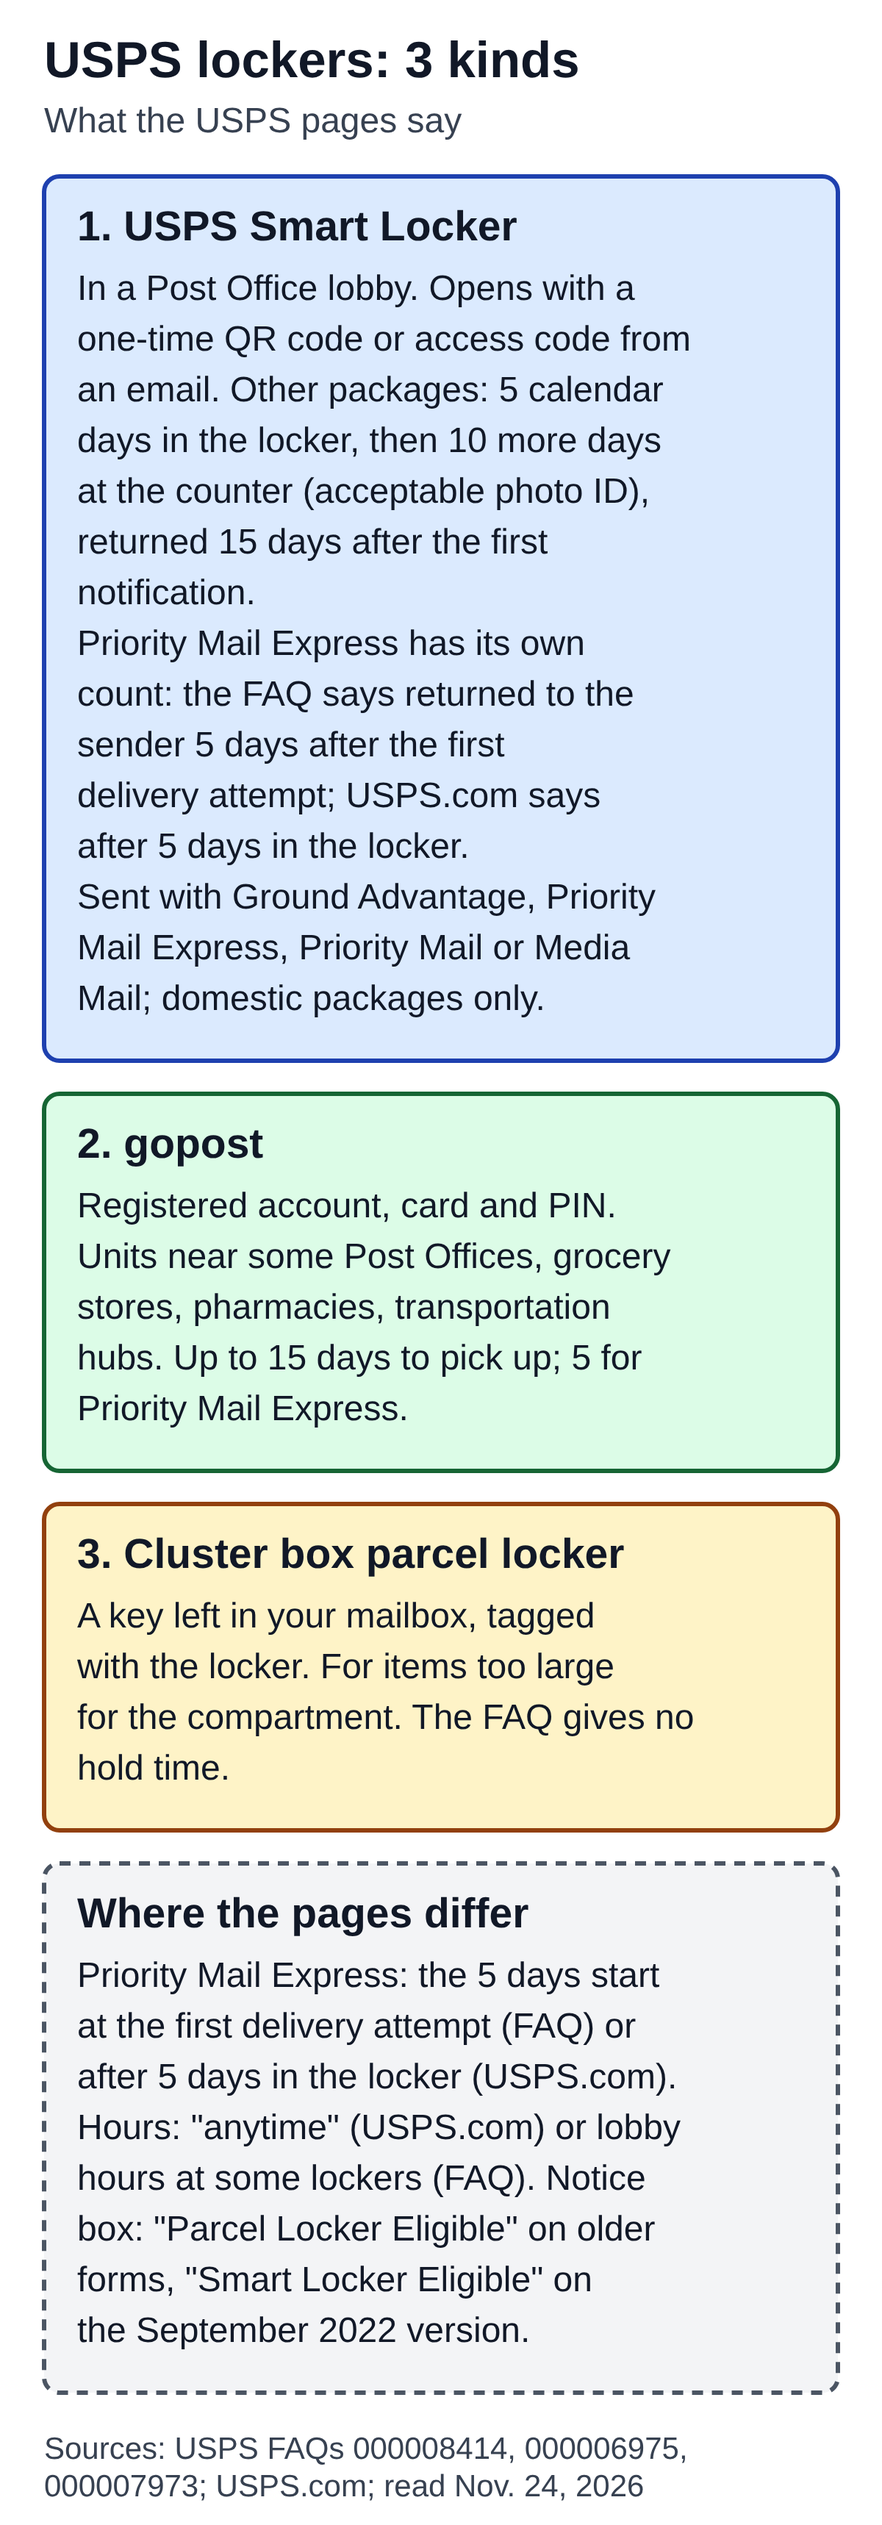
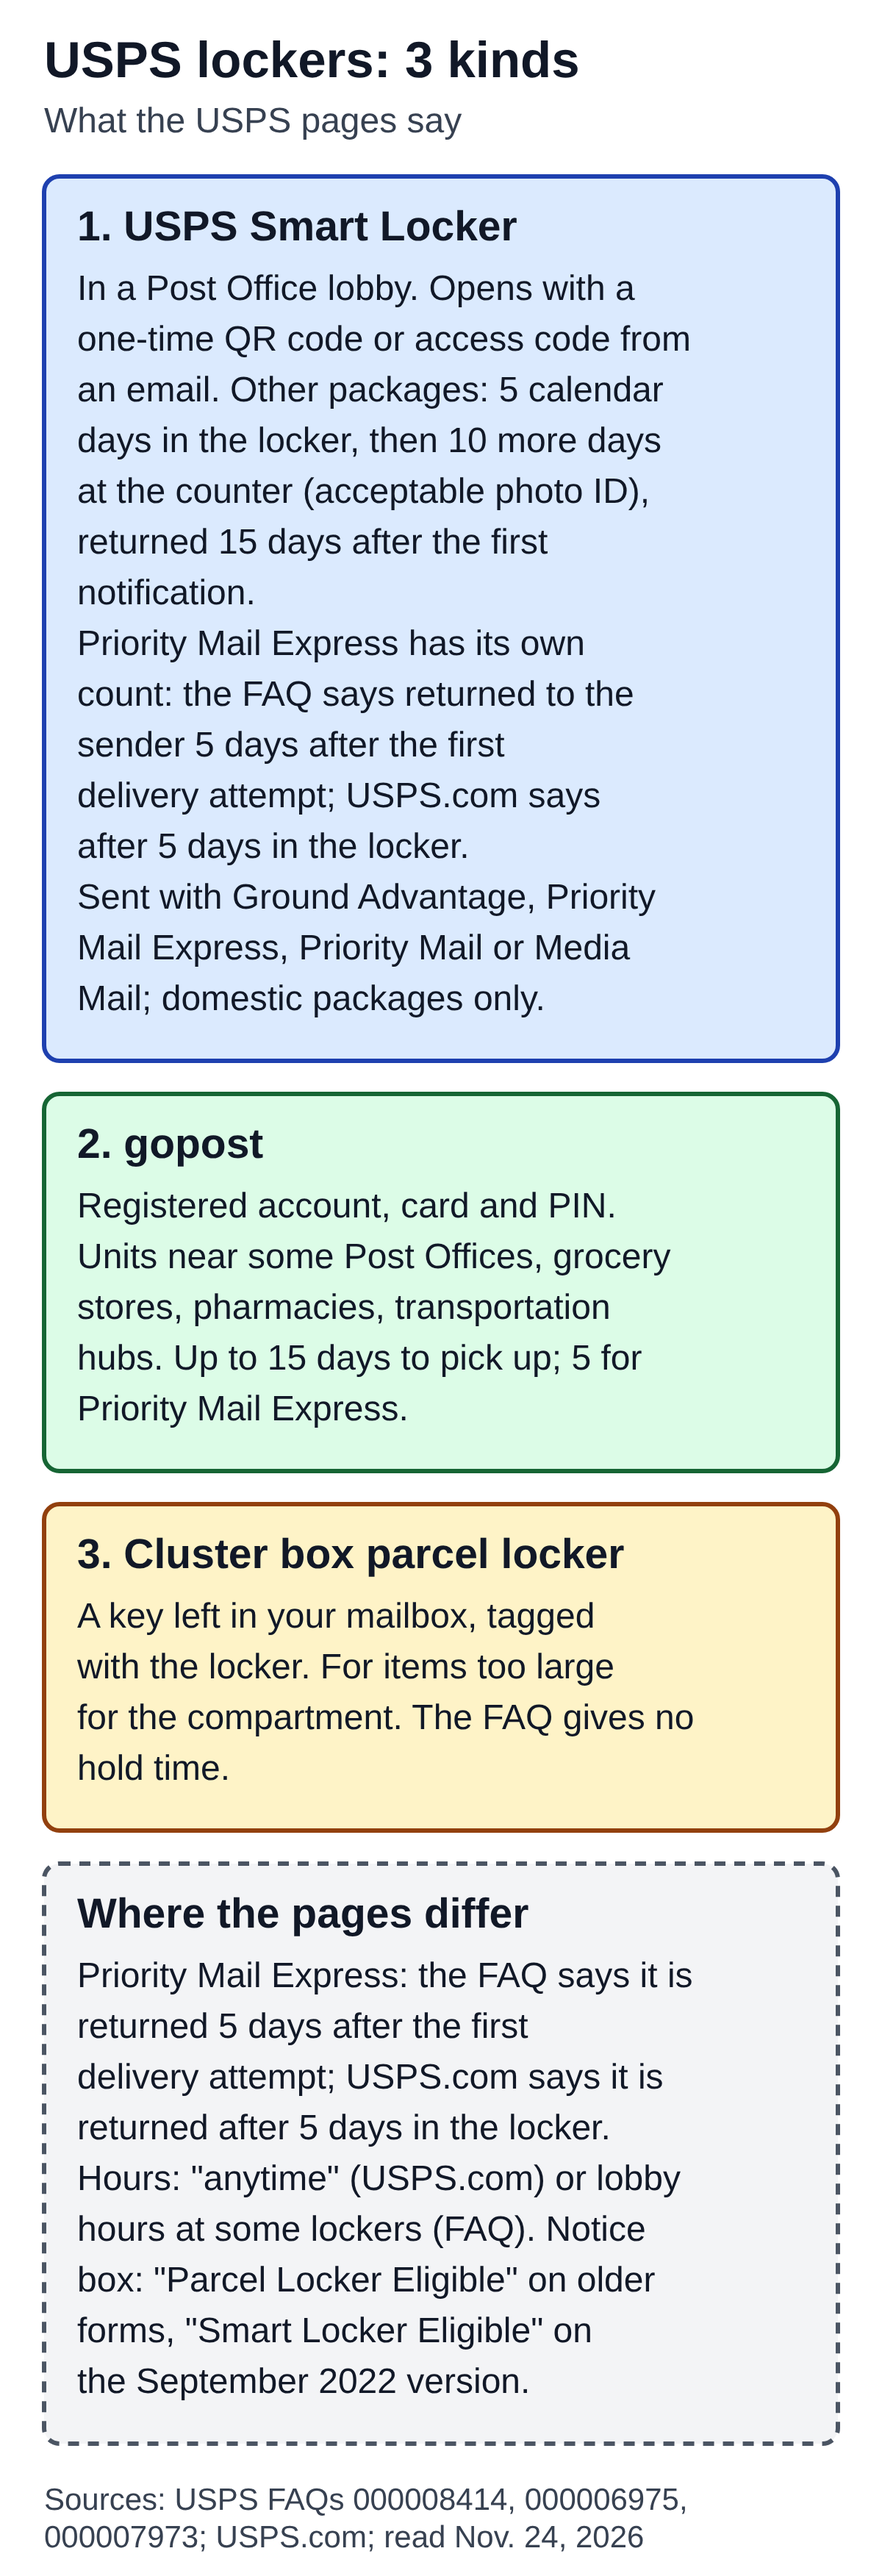
Fix Smart Locker diagram after Gate 2 round 2: lower card wording
The "Where the pages differ" card now states each source's Priority Mail
Express return rule instead of mixing a start point and a return point.
Diagram only; article text and alt unchanged.

Claude-Session: https://claude.ai/code/session_01BXtGEA3Qzg6u2ejRb8jbFU

diff --git a/docs/content-backlog.md b/docs/content-backlog.md
@@ -75,7 +75,7 @@ Pilot 12 plan: 12 published + 0 ready + 0 draft + 0 briefs = 12 slots, 4 per lan
 | 39 | `usps-refund-how-it-works` | USPS Refunds: What Can Be Refunded, When to Ask and What You Need | `usps refund` | **published 2026-11-18** (post 147, media 146; Gate 1 done by Claude: 41 claims, 9 image checks; Gate 2 round 1 on `be17de1` = FIX, applied; round 2 on `f6acd07` = PASS; moved to ready 2026-11-18; live URL https://statesideexplained.com/usps-refund-how-it-works/ ; live QA passed, see `editorial/qa/` record) | post-pilot (not counted) | Lane: postal service and stamps. Chosen 2026-11-18 on the user's approval of the seventh survey (`docs/next-candidates-2026-11-18.md`). Sources: USPS.com "Request a USPS Refund: Domestic" (no update date), DMM 604.9 (no date), FAQ 000005310 (Sep 26, 2024; pointer page), FAQ PO Box 000005315 (Nov 13, 2026; PO Box difference only), one claims FAQ sentence (000006089). User instructions: separate the Click-N-Ship 30 and 60 days (account route vs older-label email route, both from the print date; the DMM's own 30 and 60 days are PC Postage rules that do not name Click-N-Ship), keep refund and claim apart, report conflicts with published posts (none direct; PO Box, Package Intercept and extra-service counting differences shown, see the QA record). Demand: Google Trends relative index only ("usps refund" about 2.1 x the tracking-status phrase, broad); search volume not checked. No amounts, fees or percentages. Links: claims, Missing Mail, Certified Mail, PO Box, Package Intercept, Package Pickup, holiday shipping deadlines. **Gate 2 on `be17de1` = FIX, applied 2026-11-18:** refund definition widened (conditions met, incl. Priority Mail Express guarantee), Click-N-Ship email route shown as more than 30 but less than 60 days with day 60 left open, windows marked as not a guarantee with links to the refund page and DMM 604.9; diagram, alt and meta updated; see the QA record. Re-read of the refund page (11,306 characters, unchanged), DMM 604.9 and the PO Box FAQ (dated Nov. 13, 2026) right before publishing, no change; published 2026-11-18 05:27 UTC at the user's instruction. Link-only follow-ups applied 2026-11-18 to Claims (138), Missing Mail (123), Certified Mail (72) and PO Box (88); Package Intercept, Package Pickup and holiday deadlines not linked yet (see the QA record, "Link follow-ups"). Reuse: re-read all three sources before any later edit. |
 | 40 | `usps-redelivery-how-it-works` | USPS Redelivery: How to Schedule It, Cutoffs and Return Dates | `usps redelivery` | **published 2026-11-20** (post 155, media 154; Gate 1 done by Claude: 41 claims, 10 image checks; Gate 2 round 1 on `5662d08` = FIX (electronic-signature exception), applied in `39202d9`, round 2 PASS; moved to ready 2026-11-20; the four sources re-read right before publishing with no change; live URL https://statesideexplained.com/usps-redelivery-how-it-works/ ; live QA passed, see `editorial/qa/`) | post-pilot (not counted) | Lane: postal service and stamps. Chosen 2026-11-20 from the user's two proposals (`docs/next-candidates-2026-11-20.md`). Sources: USPS FAQ "Redelivery - The Basics" (000005320, Sep 16, 2026), FAQ 000006169 (Apr 7, 2026), FAQ "PS Form 3849 Redelivery Notice" (000006180, Jun 29, 2026), USPS.com "Schedule a Redelivery" (no date). Excluded on 2026-11-13 as covered by the tracking post before the FAQs were read; reopened because the FAQs hold scheduling, cutoff, return-date and eligibility rules the tracking post lacks (role split in the brief). Demand: Google Trends relative index only (about 0.6 x "usps tracking status" over 90 days); search volume not checked. No prices. Source differences shown (return-date wording, COD 10 against 30 days, change deadline, unexplained status list). Links: tracking status, Informed Delivery, Certified Mail. Re-read all four pages right before publishing. |
 | 41 | `usps-return-to-sender-how-it-works` | USPS Return to Sender: Refused, Misdelivered, Undeliverable | `usps return to sender` | **published 2026-11-20** (post 157, media 156; Gate 1 done by Claude: 43 claims, 110 phrase checks, 8 image checks; Gate 2 round 1 on `ec2de70` = FIX (returned and not-arrived mail mixed; exceptions after delivery missing from the table), applied in `39202d9`, round 2 PASS; moved to ready 2026-11-20; the five sources re-read right before publishing with no change; live URL https://statesideexplained.com/usps-return-to-sender-how-it-works/ ; live QA passed, see `editorial/qa/`) | post-pilot (not counted) | Lane: postal service and stamps. Reframed from the held idea "undeliverable and misdelivered mail" on the user's instruction of 2026-11-20 (`docs/next-candidates-2026-11-20.md`). Sources: FAQ 000006175 (May 19, 2026), FAQ 000006162 (Sep 3, 2026), DMM 508.1.1, DMM 507.1.8 and 1.9, DMM 604.8.1 (no update dates). Three situations kept apart (mail for someone else, refusing mail, a sender's mail returned). Demand: Trends relative only (about 0.95 x redelivery over 90 days); search volume not checked. Open source differences shown in the article: section numbers cited by the FAQ, four against five non-refusable types, "Refused" against "Not at this address", "reasonable time" undefined. Overlap with Missing Mail, Mail Forwarding, Tracking status and Certified Mail handled by one sentence and one link each; a link from the redelivery post is proposed after publication. Re-read all five sources right before publishing. |
-| 42 | `usps-smart-locker-vs-parcel-locker` | USPS Smart Locker vs. Parcel Locker: Three Kinds of USPS Lockers | `usps parcel locker` | **draft 2026-11-24** (Gate 1 done by Claude: 44 claims, 135 phrase checks with 1 miss that is a paraphrase, 3 image checks; Gate 2 round 1 on `6ddb13c` = FIX (Priority Mail Express count missing from the lead, table, diagram, alt and the differences paragraph), applied; waiting for Gate 2 round 2; not moved to ready; nothing built in WordPress) | post-pilot (not counted) | Lane: postal service and stamps. Chosen on the user's approval of 2026-11-24 (`docs/next-candidates-2026-11-24.md`), reframed to the searched phrase "usps parcel locker" with three kinds of locker kept apart (Smart Locker, gopost, cluster box parcel locker). Sources: FAQ 000008414 (Jul 28, 2026), FAQ 000006975 (Aug 4, 2026), FAQ 000007973 (Oct 22, 2026), three USPS.com Smart Lockers pages (no update dates), FAQ 000005320, 000006180, 000006169. Demand: Trends relative only ("usps parcel locker" about 0.74 x the tracking status anchor over 90 days; "usps smart locker" about 0.03 x), not read as Smart Locker interest alone; search volume not checked. Differences shown in the article: Priority Mail Express return timing, "anytime, anywhere" against lobby hours, two maximum sizes, notice label history. Overlap with redelivery, PO Box, tracking status and Informed Delivery handled by one sentence and one link each (links to judge at Gate 2). Priority Mail Express post deferred to the next candidate list. Re-read all nine sources right before publishing. |
+| 42 | `usps-smart-locker-vs-parcel-locker` | USPS Smart Locker vs. Parcel Locker: Three Kinds of USPS Lockers | `usps parcel locker` | **draft 2026-11-24** (Gate 1 done by Claude: 44 claims, 135 phrase checks with 1 miss that is a paraphrase, 3 image checks; Gate 2 round 1 on `6ddb13c` = FIX (Priority Mail Express count missing from the lead, table, diagram, alt and the differences paragraph), applied; Gate 2 round 2 on `7dd55bb` = FIX (lower diagram card mixed the start and the return point), applied; waiting for Gate 2 round 3; not moved to ready; nothing built in WordPress) | post-pilot (not counted) | Lane: postal service and stamps. Chosen on the user's approval of 2026-11-24 (`docs/next-candidates-2026-11-24.md`), reframed to the searched phrase "usps parcel locker" with three kinds of locker kept apart (Smart Locker, gopost, cluster box parcel locker). Sources: FAQ 000008414 (Jul 28, 2026), FAQ 000006975 (Aug 4, 2026), FAQ 000007973 (Oct 22, 2026), three USPS.com Smart Lockers pages (no update dates), FAQ 000005320, 000006180, 000006169. Demand: Trends relative only ("usps parcel locker" about 0.74 x the tracking status anchor over 90 days; "usps smart locker" about 0.03 x), not read as Smart Locker interest alone; search volume not checked. Differences shown in the article: Priority Mail Express return timing, "anytime, anywhere" against lobby hours, two maximum sizes, notice label history. Overlap with redelivery, PO Box, tracking status and Informed Delivery handled by one sentence and one link each (links to judge at Gate 2). Priority Mail Express post deferred to the next candidate list. Re-read all nine sources right before publishing. |
 
 ## Rejected
 

diff --git a/editorial/qa/usps-smart-locker-vs-parcel-locker.md b/editorial/qa/usps-smart-locker-vs-parcel-locker.md
@@ -2,7 +2,7 @@
 
 Article: `content/drafts/usps-smart-locker-vs-parcel-locker.md` (draft, 2026-11-24, about 2,220 words in the body, one H1, ten H2 sections including Sources; meta description 148 characters; alt text 839 characters).
 Brief: `research/briefs/usps-smart-locker-vs-parcel-locker.md`. Sources: `research/sources/usps-smart-locker-vs-parcel-locker.md` (S1 to S9, all read 2026-11-24).
-Stage: draft. Gate 1 (Claude) run on 2026-11-24. **Gate 2 round 1 (ChatGPT, base `6ddb13c`, user-reported 2026-11-24): FIX, one item (Priority Mail Express count), applied 2026-11-24** (section "Gate 2 FIX round 1"); Gate 2 round 2 not yet run. Backlog row 42.
+Stage: draft. Gate 1 (Claude) run on 2026-11-24. **Gate 2 round 1 (ChatGPT, base `6ddb13c`, user-reported 2026-11-24): FIX, one item (Priority Mail Express count), applied 2026-11-24** (section "Gate 2 FIX round 1"); **Gate 2 round 2 (base `7dd55bb`, user-reported 2026-11-24): FIX, one item (lower diagram card), applied 2026-11-24** (section "Gate 2 FIX round 2"); Gate 2 round 3 not yet run. Backlog row 42.
 
 ## Scope as approved by the user (2026-11-24)
 
@@ -79,7 +79,7 @@ All nine sources were opened in the built-in browser on 2026-11-24 and every sta
 
 ## Image checks
 
-- After round 1: PNG 1200 x 3435 px, 655,367 bytes, SHA-256 prefix `e48dffcc40a5a110`; SVG 6,171 bytes, `573fe4d1fd51fb13`; md 16,669 bytes, `8f0cd8b9a21e27db`; C2PA chunk and metadata stripped on the device (hashes equal the originals). (First version: PNG 1200 x 3090, `28dec880d7562b9b`; SVG `e125e0e864a7d923`; md `16cfe457f760b40f`.)
+- After round 2: PNG 1200 x 3504 px, 668,658 bytes, SHA-256 prefix `cd8f61ee8cd7901f`; SVG 6,281 bytes, `e0db9681822c4739`; md 16,669 bytes, `8f0cd8b9a21e27db` (unchanged in round 2); the rendering script printed no text beyond the right margin; C2PA chunk and metadata stripped on the device (hashes equal the originals). (After round 1: PNG 3435 px, 655,367 bytes, `e48dffcc40a5a110`; SVG `573fe4d1fd51fb13`.) Earlier note: C2PA chunk and metadata stripped on the device (hashes equal the originals). (First version: PNG 1200 x 3090, `28dec880d7562b9b`; SVG `e125e0e864a7d923`; md `16cfe457f760b40f`.)
 - Text in the image is limited to: card headings (USPS Smart Locker, gopost, Cluster box parcel locker), facts also in the article body, a dashed "Where the pages differ" card, and a sources footer. The rendering script printed no text beyond the right margin.
 - Alt text (979 characters after round 1; 839 before) matches the front matter `image_alt` and the Markdown alt text; it gives the three cards and the two differences.
 
@@ -113,3 +113,9 @@ Reviewer result: the three-locker structure and the four internal links are appr
 Applied: (1) lead and "Picking up" section: the 5 + 10 + 15 timeline is stated for packages other than Priority Mail Express, with the Priority Mail Express count (FAQ: returned to the sender 5 calendar days after the first delivery attempt; USPS.com: after 5 days in the locker) given right after it; the comparison table row says the same; (2) diagram card 1 and the "Where the pages differ" card, and the alt text (front matter and body, identical): the FAQ's first-delivery-attempt count and USPS.com's in-locker count are labeled by source; (3) the "Where the USPS pages differ" bullet: the pages give different starting points for the count, the article does not say which applies, and a reader near the deadline is told to ask the Post Office that holds the package; the earlier sentence that the pages do not say when the count starts is removed.
 
 Re-checked on 2026-11-24 in the built-in browser: the Smart Locker FAQ note ("Priority Mail Express items are returned to sender 5 calendar days after the initial delivery attempt, no matter when the USPS Smart Locker option is selected" follows the pickup section; "all other items not picked up are removed from the locker" follows it), the USPS.com recipient and shipper pages ("After 5 days in the locker: Priority Mail Express packages will be immediately returned to sender. All other packages ..."), and the redelivery return-dates FAQ table (Priority Mail Express: second notice 3 days after receipt of first notice, return 5 days after first attempt; "Priority Mail Express which is held for 5 days, before being returned"). The article's own paraphrase "returned" was changed to the pages' "returned to sender" wording. No other wording changed. Nothing is published; Gate 2 round 2 is needed.
+
+## Gate 2 FIX round 2 (2026-11-24, base `7dd55bb`): applied
+
+Reviewer result: the body, table and alt separate the two Priority Mail Express counts correctly; one item left. The lower diagram card "Where the pages differ" said the 5 days start at the first delivery attempt or after 5 days in the locker, which mixes the starting point with the return point (USPS.com says the package is returned after 5 days in the locker; it does not give a start for the count). The upper card and the alt already had the intended meaning.
+
+Applied: the lower card now reads "Priority Mail Express: the FAQ says it is returned 5 days after the first delivery attempt; USPS.com says it is returned after 5 days in the locker." Only the diagram changed (PNG and SVG); the article text and the alt are unchanged, and the alt already matches this wording ("the FAQ says it is returned to the sender 5 days after the first delivery attempt, USPS.com says after 5 days in the locker"). The rendered card was viewed (no text cut off). The article bullet in "Where the USPS pages differ" says "different points for the count to start" for the FAQs against USPS.com; the reviewer found the body acceptable, so it is not changed. Nothing is published; Gate 2 round 3 is needed.

diff --git a/docs/decision-log.md b/docs/decision-log.md
@@ -1578,3 +1578,7 @@ The user approved USPS Smart Locker as the second post of the day, asking for th
 ## 2026-11-24 (KST) — Gate 2 round 1 on the Smart Locker draft: FIX, applied
 
 Round 1 on `6ddb13c` kept the three-locker structure and the four internal links and found one problem: the 5 + 10 + 15 day timeline was written as a rule for every package, but Priority Mail Express has its own count on the pages, and the text said the pages do not give the starting day although the FAQ names the first delivery attempt. Fixed in the lead, the table, the Picking up section, the diagram (two cards), the alt text and the differences paragraph: other packages keep the 5 + 10 + 15 timeline; Priority Mail Express is shown by source (FAQ: returned to sender 5 calendar days after the first delivery attempt; USPS.com: after 5 days in the locker; redelivery FAQ table: held 5 days after the first attempt); the article does not say which applies and tells a reader near the deadline to ask the Post Office that holds the package. The three pages were re-read first and the wording follows theirs ("returned to sender"). Nothing is published; Gate 2 round 2 is needed.
+
+## 2026-11-24 (KST) — Gate 2 round 2 on the Smart Locker draft: FIX, applied
+
+Round 2 on `7dd55bb` accepted the body, table and alt and found one problem: the lower diagram card said the 5 days start at the first delivery attempt or after 5 days in the locker, which mixed a start point with a return point. The card now states each source's return rule (FAQ: returned 5 days after the first delivery attempt; USPS.com: returned after 5 days in the locker). Only the PNG and SVG changed. Nothing is published; Gate 2 round 3 is needed.
